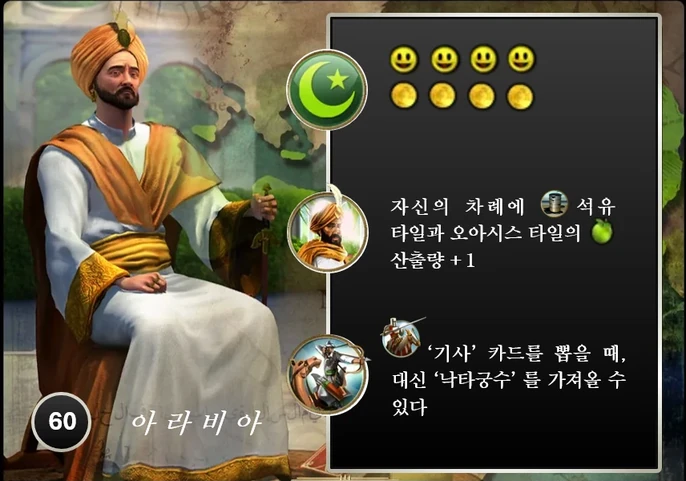
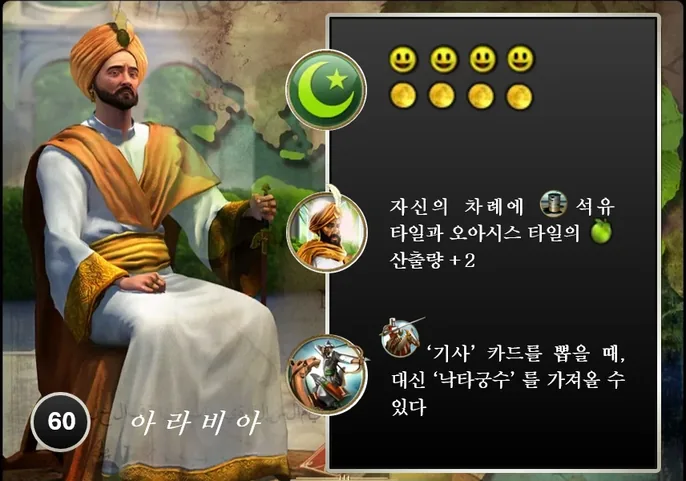
아라비아 문명 카드 그림 교체 (석유·오아시스 식량 +2 표기)
Claude-Session: https://claude.ai/code/session_01LEwiRiXRJPjckZxHM1aEbm

diff --git a/docs/open-questions.md b/docs/open-questions.md
@@ -66,7 +66,7 @@
 | 59 | 불모지 탈출 장수 | 사용자 결정: 첫 차례에 타일을 1장 → **원하는 만큼**(1장 이상) 버리고 같은 수만큼 새로 뽑는다 (한 번만, 그 차례는 쉼). AI도 쓴다: 시작 패에 식량 1 이하인 나쁜 타일(산·설원·사막 등, 자연경관 제외)이 2장 이상이면 그 타일을 모두 바꾼다 (엘도라도로 타일을 더 받은 패는 쓰지 않음) |
 | 60 | 시작 타일 엘도라도의 영토 효과 | 사용자 결정: 처음 발견한 문화 1은 바로 받아 그 타일까지 보고 도시를 고른다 (4+1=5장). 영토로 얻는 문화 1은 영토가 확정된 뒤(도시를 세운 뒤)에 받으므로 시작 타일로 고를 수 없고, 도시를 세우면 1장이 더 붙는다 (예전: 2장을 미리 받아 6장 중에서 골랐음) |
 | 61 | 맡아두기와 나침반 | 사용자 결정: 정찰한 타일 맡아두기는 **게임 시작부터** 할 수 있다 (예전에는 나침반 효과). 나침반의 새 효과: **정찰할 때 2장을 보고 그중 1장을 맡아둘 수 있다** (카드 문구: "정찰 시 타일카드를 2장 보고, 그중 1장을 기억할 수 있다") (나머지는 덱에 돌려넣고 섞음, 맡아두기는 그대로 1장까지, 일꾼은 1개만 묶임). 게임 안 나침반 기술 카드 그림에는 옛 효과 글이 남아 있다 (사용자가 카드를 새로 주면 바꾼다). AI는 나침반을 서두르지 않고, 2장 중 맡아두기에 더 좋은 타일을 고른다 |
-| 62 | 아라비아 능력 | 사용자 결정: 석유·오아시스 타일 식량 +1 → **+2**. 400판(아라비아 주인공, 3·4·5인): 18.5% → 27.3% (기대 26.1%). 석유 타일 대부분이 식량 1짜리라 +2면 식량 3이 된다. 게임 안 아라비아 문명 카드 그림에는 아직 +1로 적혀 있다 |
+| 62 | 아라비아 능력 | 사용자 결정: 석유·오아시스 타일 식량 +1 → **+2**. 400판(아라비아 주인공, 3·4·5인): 18.5% → 27.3% (기대 26.1%). 석유 타일 대부분이 식량 1짜리라 +2면 식량 3이 된다. 아라비아 문명 카드 그림도 +2로 바꾼 새 카드로 교체함 |
 
 ## 공개 범위 (설계 결정)
 - 공개: 타일·기술·정책·불가사의·군사 카드 **장수**, 로그에 남는 "무엇을 생산·승급했는지".
